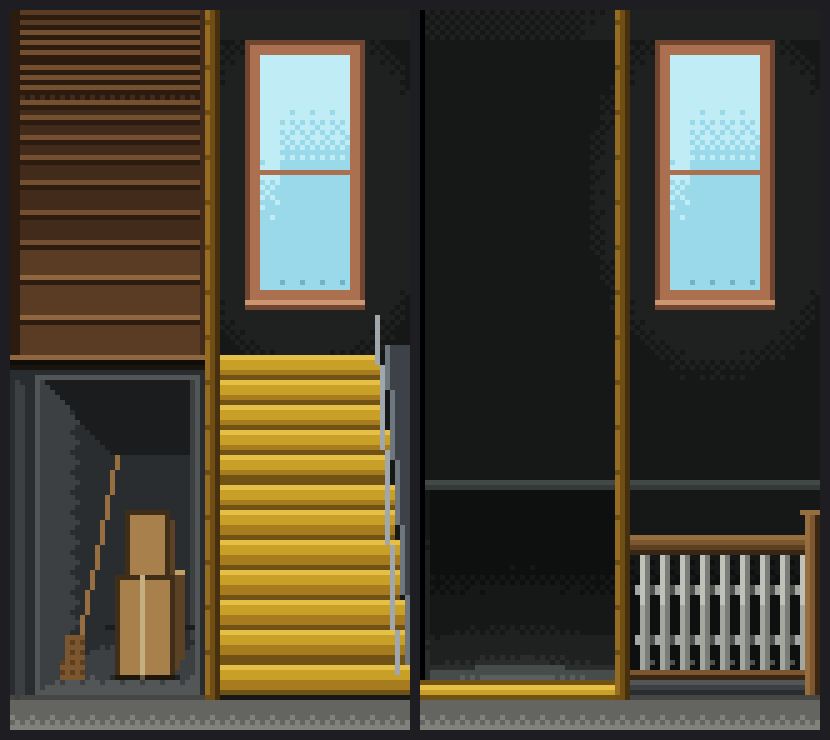
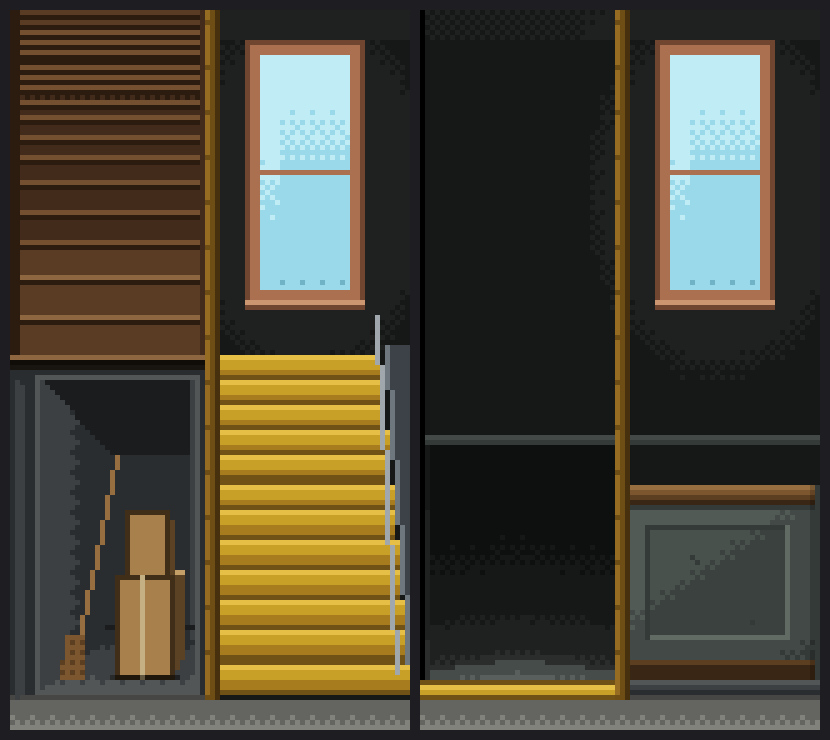
Stairwell: solid half-wall instead of spindles, raised; jump climbs onto its cap
- The DOWN stair's banister half is now a plastered half-wall with a timber
  capping rail, a sunk panel and a skirting (the spindles read as a baby gate)
- Cap raised from design row 76 to 66 (world 367 -> 357); VAULT_RAIL_TOP follows,
  the far landing edge across the well moves up with it
- Prompt reads "Jump over the wall"
- banister_test reads the cap's top row from the texture and checks the face
  below it is solid across its width (fails on the old spindle art)

Claude-Session: https://claude.ai/code/session_018G5NCP3m9WbvqqpohXSrqQ

Changed region(s): [[0.512, 0.5905, 0.994, 0.9635], [0.6024, 0.8703, 0.6627, 0.9014], [0.5422, 0.9014, 0.5723, 0.9324]]

diff --git a/tools/art/stairwell.py b/tools/art/stairwell.py
@@ -460,50 +460,62 @@ def under_stairs_open(p, x0, x1, line_y, kind='cupboard'):
     fill_poly(p, [(x0 + 1, line_y + 5), (x0 + 4, line_y + 6), (x0 + 4, STEP_BOT - 1), (x0 + 1, STEP_BOT)], lambda x, y: dither(GREY, 2.4 if x < x0 + 3 else 1.2, x, y, 0.2))
 
 
-PAINT = [(78, 80, 78), (122, 124, 120), (164, 166, 160), (192, 194, 186)]   # painted balusters: shadow .. lit edge
-RAIL_Y = 76                         # DOWN: the banister's handrail (sprite y of its lit top edge) — stairwell.gd BANISTER_* reads it
-BALUSTER_XS = list(range(44, 77, 4))
+RAIL_Y = 66                         # DOWN: the half-wall's capping rail (sprite y of its top) — stair_pan.VAULT_RAIL_TOP = 291 + RAIL_Y
+                                    # (owner round 31h: "a bit higher… strange for a bannister to be that low" — was 76)
+FAR_EDGE = RAIL_Y - 10              # the far landing's edge across the well, seen over the wall
 
 
 def well(p, x0, x1, y0, y1):
     """The open stairwell behind the banister: the same dark shaft wall as the UP stair's, lit round the window above, falling away
-    to black below this floor's landing (the far side's floor line at y 66) — the drop you'd jump."""
+    to black below this floor's landing (the far side's floor line, FAR_EDGE) — the drop you'd jump."""
     dark_back(p, x0, x1, y0, y1, glow=(59, 7, 36))
-    for y in range(66, y1 + 1):
+    for y in range(FAR_EDGE + 1, y1 + 1):
         for x in range(x0, x1 + 1):
-            t = (y - 66) / max(1.0, y1 - 66)
+            t = (y - FAR_EDGE - 1) / max(1.0, y1 - FAR_EDGE - 1)
             p[x, y] = dither(DARK, max(0.0, 1.1 - 1.3 * t), x, y, 0.3) + (255,)
     for x in range(x0, x1 + 1):                                    # the far side's landing edge, catching the window light
-        p[x, 65] = dither(PLASTER, 1.2, x, 65, 0.2) + (255,)
-        p[x, 66] = PLASTER[0] + (255,)
+        p[x, FAR_EDGE] = dither(PLASTER, 1.2, x, FAR_EDGE, 0.2) + (255,)
+        p[x, FAR_EDGE + 1] = PLASTER[0] + (255,)
 
 
 def banister(p, x0, x1):
-    """A painted banister across the open well: a timber handrail (lit top, underside in shadow — the eye is just below it),
-    turned white balusters, a bottom string on the landing slab, an end post against the hall's side wall."""
-    for bx in BALUSTER_XS:
-        for y in range(RAIL_Y + 4, 103):
-            bulge = (y in (86, 87, 96, 97))
-            p[bx, y] = PAINT[3 if y < 90 else 2] + (255,)
-            p[bx + 1, y] = PAINT[1] + (255,)
-            if bulge:
-                p[bx - 1, y] = PAINT[2] + (255,)
-                p[bx + 2, y] = PAINT[0] + (255,)
-        p[bx + 2, 101] = PAINT[0] + (255,)
+    """A solid half-wall across the open well (owner round 31g: the spindle banister "looks like a baby gate… try making it a wall"):
+    a plastered knee wall the height of a banister, a timber capping rail along its top (its front face lit, a shadow line under the
+    overhang — the eye is just below it), a sunk panel picked out by a moulding, a skirting board, and the landing slab's cut edge
+    beneath. The cap's top is RAIL_Y — what the vault climbs onto (stair_pan.VAULT_RAIL_TOP)."""
+    top = RAIL_Y + 4
+    for y in range(top, 101):                                      # the wall face: lit from the window above-left
+        for x in range(x0, x1 + 1):
+            v = 2.3 - 0.9 * (x - x0) / max(1, x1 - x0) - 0.9 * (y - top) / 26.0
+            p[x, y] = dither(PLASTER, max(0.3, min(3.0, v)), x, y, 0.15) + (255,)
+    for x in range(x0, x1 + 1):                                    # the cap's shadow on the wall just under the overhang
+        p[x, top] = dither(PLASTER, 0.2, x, top, 0.2) + (255,)
+    # a sunk panel: shadowed top + left edges, lit bottom + right (light from the upper left)
+    px0, py0, px1, py1 = x0 + 4, top + 4, x1 - 6, 96
+    for x in range(px0, px1 + 1):
+        p[x, py0] = PLASTER[0] + (255,)
+        p[x, py1] = PLASTER[3] + (255,)
+    for y in range(py0, py1 + 1):
+        p[px0, y] = PLASTER[0] + (255,)
+        p[px1, y] = PLASTER[3] + (255,)
+    for x in range(px0 + 1, px1):                                  # the panel's field sits a shade back
+        for y in range(py0 + 1, py1):
+            c = p[x, y]
+            p[x, y] = shade(c[:3], 0.9) + (255,)
+    for (cx, cy) in ((px0 + 9, py0 + 6), (px0 + 10, py0 + 7), (px1 - 7, py1 - 3)):   # wear: scuffs + a hairline crack
+        p[cx, cy] = PLASTER[0] + (255,)
     for x in range(x0, x1 + 1):
-        p[x, RAIL_Y] = TIMBER[3] + (255,)
+        p[x, RAIL_Y] = TIMBER[3] + (255,)                         # the capping rail: lit top edge, front face, underside
         p[x, RAIL_Y + 1] = TIMBER[2] + (255,)
         p[x, RAIL_Y + 2] = TIMBER[1] + (255,)
         p[x, RAIL_Y + 3] = TIMBER[0] + (255,)
-        p[x, 103] = TIMBER[2] + (255,)                            # the bottom string
-        p[x, 104] = TIMBER[0] + (255,)
+        for y in range(101, 105):                                  # skirting
+            p[x, y] = (TIMBER[1] if y == 101 else TIMBER[0]) + (255,)
         for y in range(105, 108):                                  # the landing slab's cut edge, facing us
             p[x, y] = dither(GREY, 2.6 - (y - 105) * 0.8, x, y, 0.2) + (255,)
-    for y in range(RAIL_Y - 4, 108):                               # the end post against the side wall
-        for x, c in ((x1 - 2, TIMBER[3]), (x1 - 1, TIMBER[2]), (x1, TIMBER[0])):
-            p[x, y] = c + (255,)
-    for x in range(x1 - 3, x1 + 1):
-        p[x, RAIL_Y - 5] = TIMBER[3] + (255,)
+    for y in range(RAIL_Y, 105):                                   # the wall's return against the hall's side wall
+        p[x1, y] = PLASTER[0] + (255,)
+        p[x1 - 1, y] = shade(p[x1 - 1, y][:3], 0.8) + (255,)
 
 
 def way_down(p, x0, x1, y0, y1):
@@ -520,13 +532,13 @@ def way_down(p, x0, x1, y0, y1):
 
 def down_view(kind=None):
     """One dark stair hall (owner round 31f: no stair back above the DOWN stair): the far wall under the window, the far landing's
-    edge at row 65, below it the drop — on the left the way down with only its first step drawn, on the right the banister across
+    edge at FAR_EDGE, below it the drop — on the left the way down with only its first step drawn, on the right the banister across
     the open well."""
     img = new_canvas()
     p = px(img)
     floor_strip(p, 0, W - 1)
     well(p, 1, W - 1, -EXT, 104)
-    way_down(p, 1, 38, 67, 104)
+    way_down(p, 1, 38, FAR_EDGE + 2, 104)
     window(p, 48, WINDOW_TOP, 69, WINDOW_BOT)
     banister(p, 41, W - 1)
     # the lip: the first step down, in yellow

diff --git a/docs/Y_PLANES.md b/docs/Y_PLANES.md
@@ -188,13 +188,13 @@ floor (owner round 31e — the corridor art's filler band used to show above a s
 - **Right**: mirror about corridor centre (675) → centre x 1179.
 - Art **top edge** y = **262** (the lintel is 257..261); art **bottom** y = **406**.
 - The art is DESIGNED on rows 0..114 = world 291..405 (stairwell.py `EXT` = 29 rows above that); the yellow
-  up-steps' top / the stair-back line is design row 40 = world 331 (round 31f: the flight climbs halfway up the opening; the turn heights follow it); the DOWN banister's handrail top is design
-  row 76 = world **367** (`stair_pan.VAULT_RAIL_TOP`).
+  up-steps' top / the stair-back line is design row 40 = world 331 (round 31f: the flight climbs halfway up the opening; the turn heights follow it); the DOWN half-wall's capping-rail top is design
+  row 66 = world **357** (`stair_pan.VAULT_RAIL_TOP`; was 76 / 367 until owner round 31h raised the wall).
 - **Banister vault** (`stairwell.vault_banister`, `stair_pan._vault`): the banister zone is centred 40px from the
   DOWN trigger toward the corridor (x 188 left / 1162 right) — exactly the floor below's stair-arrival x. The
-  player steps up 10, climbs to feet 367 (origin 334), hops 6, falls with the cut at 367 (clip below), and once
-  wholly between floors the cut moves to the floor below's opening top (262 + one floor, clip ABOVE) so they drop
-  in feet first and land on origin 386 (+ one floor).
+  player steps up 10, climbs to feet 357 (origin 324) on the half-wall's cap, hops 6 and falls; the slice shader
+  hides every pixel in the band `stair_pan.vault_gap` = [357, 262 + one floor] (the cap down to the floor below's
+  opening top), so they drop behind the wall and out of the lintel below feet first, landing on origin 386 (+ one floor).
 - Owner-confirmed DOWN dark-shaft inner box (fire): centre 146, half-width 26 →
   x [120, 172] (left); right mirror centre 1203. Broader stair zone kept clear
   of corridor fire: x [100, 235] (left) / [1114, 1249] (right).

diff --git a/CLAUDE.md b/CLAUDE.md
@@ -2125,6 +2125,15 @@ means no rendering — UI layout and art still need an in-editor look.
   sprite has NO stair back any more: one dark hall — far wall + window, the far landing's edge at row 65, the drop below it (way
   down + lip on the left, banister on the right). `stair_visuals_test` measures the top yellow tread from the texture against
   the turn height.
+  **Round 31g (owner: "this is great but not the bannister. That looks like a baby gate. Try making it a wall or something"):**
+  the spindles are gone — the "banister" half is now a SOLID HALF-WALL (`stairwell.py banister()`): a plastered knee wall lit from the
+  window, a sunk panel with a moulding, a skirting board, the landing slab's edge below, and a timber CAPPING RAIL whose top is still
+  design row 76 = world 367 (the jump climbs onto it). The prompt reads "[W] Jump over the wall"; code names (`Banister`,
+  `vault_banister`, `banister_test`) are unchanged. `banister_test` reads the cap's top row from the texture and checks the face
+  below it is solid.
+  **Round 31h (owner: "a bit higher I think. It's strange for a bannister to be that low"):** the half-wall's cap went from design
+  row 76 to **66** (world 367 → **357**, a 42 px wall instead of 32); `stair_pan.VAULT_RAIL_TOP` follows (the jump climbs 10 px higher),
+  and the far landing's edge across the well (`FAR_EDGE`) moved up with it.
   Y planes in docs/Y_PLANES.md §4. Locked by `banister_test` (56th suite; mutation-checked) + `stair_visuals_test` (one DOWN look,
   every stair sprite 262..406 at scale 1, signs over the stair art). Seen while capturing, NOT changed: an UP-stairwell stair enemy on
   the arrival floor can start above the top of the screen and walk down into view (its legs show under the ceiling first).
